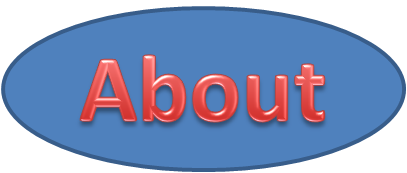
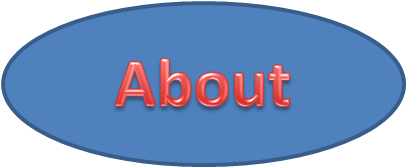
changing about button

diff --git a/musubi/apps/index_n.html b/musubi/apps/index_n.html
@@ -23,7 +23,7 @@
 			<center>
  				<img id="start" src="http://divyahansg.github.com/musubi-truth-dare/musubi/apps/start.png" height="80px" width="200px" />
 				<br/><br/>
- 				<img id="about" src="http://divyahansg.github.com/musubi-truth-dare/musubi/apps/about.png" height="60px" width="180px" />
+ 				<img id="about" src="http://divyahansg.github.com/musubi-truth-dare/musubi/apps/about.png" height="80px" width="200px" />
 			</center>
 		</div>
 		<div class="about">
